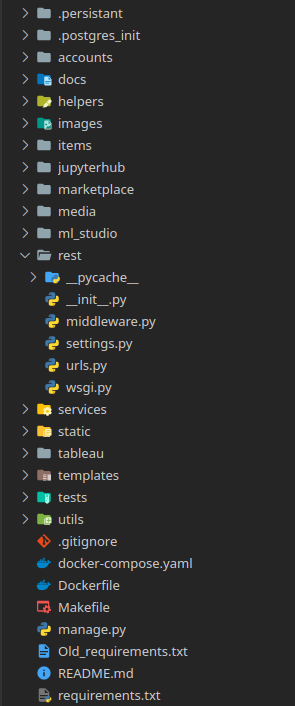
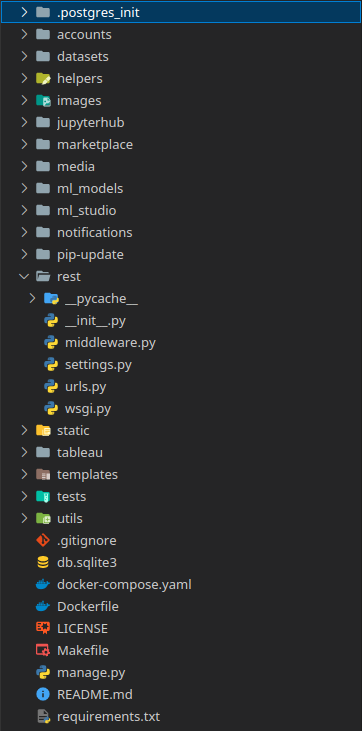
Dev 2023 (#45)
* update dev (#29)

* Update JsplumbClient.js

after updating service layer some old tags need to be changed

* Update NodeManager.js

after updating API; URL refactor and no need to have parsing as we are already getting a JSON

* upload marketplace GIF

* update (#30)

* Update JsplumbClient.js

after updating service layer some old tags need to be changed

* Update NodeManager.js

after updating API; URL refactor and no need to have parsing as we are already getting a JSON

* Update README.md

some use cases examples

* Add files via upload

dataset gif example

* Update README.md

* Update README.md

* Add files via upload

ml studio example

* update README

* update README

* update README

* update README

* update
*rename services app to ml_model.
*connect markertplace to ml_models.
*fix markerplace

* update:
*API* add ml_model delete.
*Front-end* add ml_models to marketplace.
*Front-end* fix CCard component.

* update:
* Fix DatasetRead input in ML.
* Fix Datasets Table.

* update:
 * add ml_model download from mintio. (API)

* Fix readcsv

* updating dev (#39)

* Dev 2023 (#37)

* update dev (#29)

* Update JsplumbClient.js

after updating service layer some old tags need to be changed

* Update NodeManager.js

after updating API; URL refactor and no need to have parsing as we are already getting a JSON

* upload marketplace GIF

* update (#30)

* Update JsplumbClient.js

after updating service layer some old tags need to be changed

* Update NodeManager.js
[…]

Changed region(s): [[0.0, 0.0, 1.0, 0.9972]]

diff --git a/apiMiddl/README.md b/apiMiddl/README.md
@@ -39,7 +39,7 @@ Bellow are the module related folders with tipicall django structure urls, views
 - media, this is the storage for user images.
 - ml_studio, integration with our aplication engine for the ML studio.
 - rest, this is the default Django REST.
-- services, this integrate the engine ability to execute models as service.
+- ml_models, this integrate the engine ability to execute models as service.
 - static, just some static data.
 - tableau, project's endpoints with tableau definitions.
 - templates, Django inherited admin page with our modifications.
